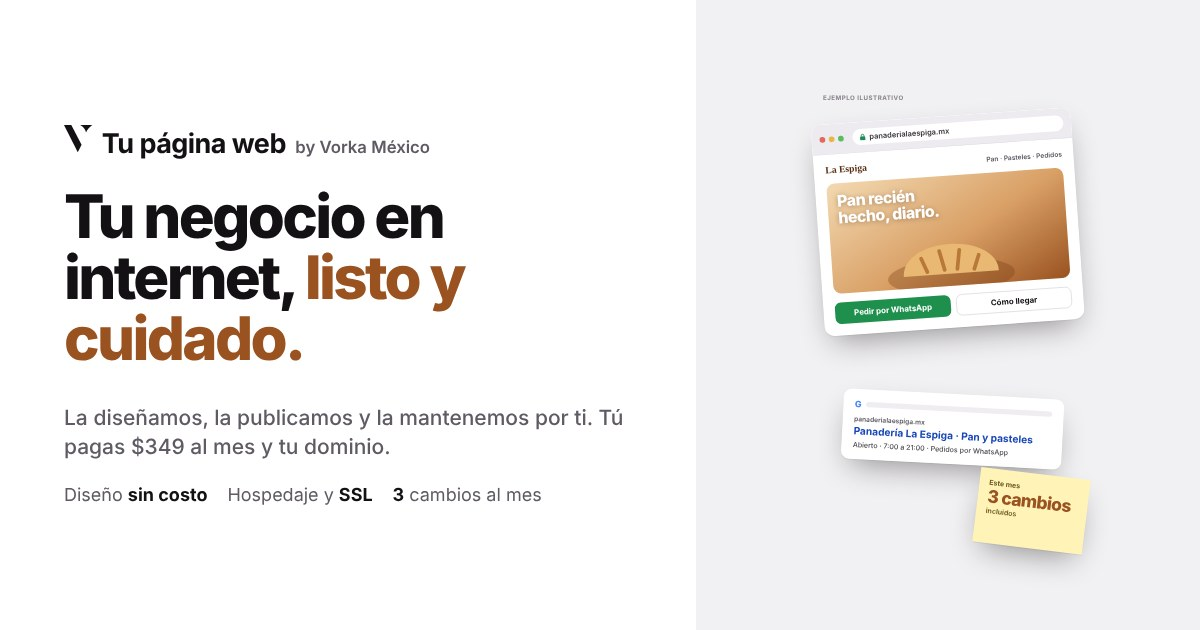
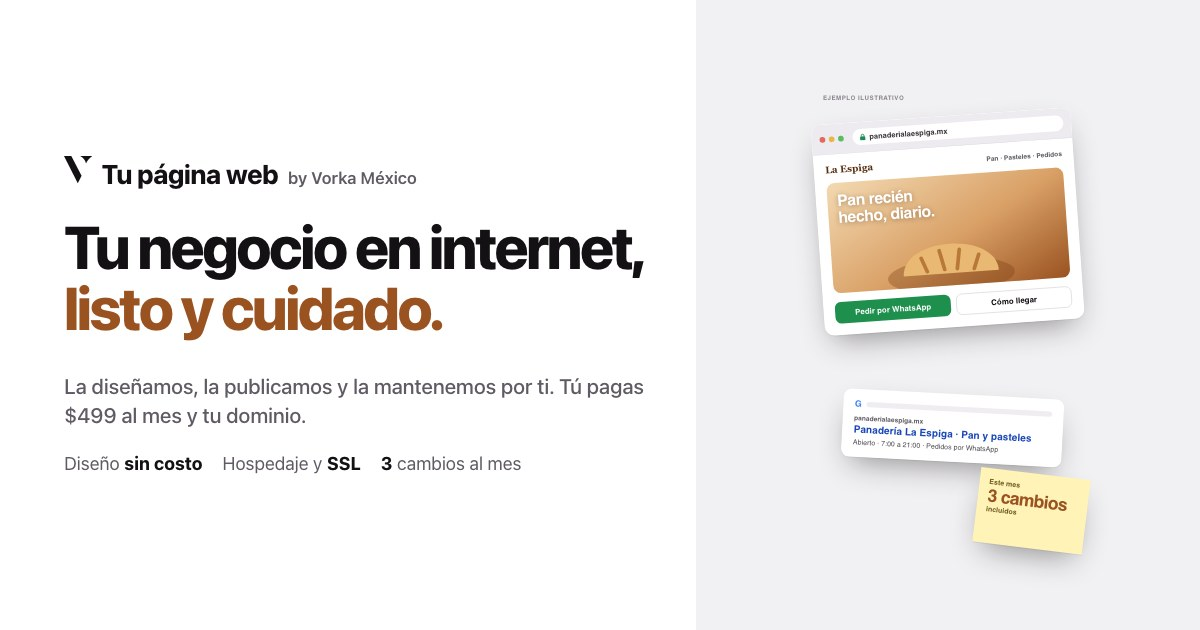
Tu página web (plan solo) sube de $349 a $499 al mes
Migración 0082 (precio en D1; las suscripciones abiertas conservan el suyo), textos de la tienda, /servicios/pagina-web/
y bandas de /servicios regeneradas, PLAN_WEB de Learn, FAQ de Negocio Completo, portada y og regeneradas, y pruebas.
Negocio Completo sigue en $749.

diff --git a/servicios/pagina-web/index.html b/servicios/pagina-web/index.html
@@ -3,15 +3,15 @@
 <head>
 <meta charset="utf-8">
 <meta name="viewport" content="width=device-width, initial-scale=1, viewport-fit=cover">
-<title>Tu página web por $349 al mes · Vorka México</title>
-<meta name="description" content="Página web para tu negocio por $349 MXN al mes más tu dominio: diseño sin costo, hospedaje con SSL, cambios cada mes, botón de WhatsApp y alta en Google.">
+<title>Tu página web por $499 al mes · Vorka México</title>
+<meta name="description" content="Página web para tu negocio por $499 MXN al mes más tu dominio: diseño sin costo, hospedaje con SSL, cambios cada mes, botón de WhatsApp y alta en Google.">
 <link rel="canonical" href="https://vorka.mx/servicios/pagina-web/">
 <meta name="theme-color" content="#FBFAF8">
 <meta property="og:type" content="website">
 <meta property="og:site_name" content="Vorka México">
 <meta property="og:locale" content="es_MX">
-<meta property="og:title" content="Tu página web por $349 al mes · Vorka México">
-<meta property="og:description" content="Página web para tu negocio por $349 MXN al mes más tu dominio: diseño sin costo, hospedaje con SSL, cambios cada mes, botón de WhatsApp y alta en Google.">
+<meta property="og:title" content="Tu página web por $499 al mes · Vorka México">
+<meta property="og:description" content="Página web para tu negocio por $499 MXN al mes más tu dominio: diseño sin costo, hospedaje con SSL, cambios cada mes, botón de WhatsApp y alta en Google.">
 <meta property="og:url" content="https://vorka.mx/servicios/pagina-web/">
 <meta property="og:image" content="https://vorka.mx/img/ciudades/cdmx-reforma-1600.webp">
 <meta name="twitter:card" content="summary_large_image">
@@ -56,8 +56,8 @@
 .pw-learn svg { width: 20px; height: 20px; flex: none; color: var(--morado); }
 @media (max-width: 980px) { .pw-g { grid-template-columns: minmax(0, 1fr); } .pw-inc, .pw-pasos { grid-template-columns: repeat(2, minmax(0, 1fr)); } .pw-cond { grid-template-columns: minmax(0, 1fr); } }
 @media (max-width: 560px) { .pw-inc, .pw-pasos, .pw-learn { grid-template-columns: minmax(0, 1fr); } .pw-precio { padding: 24px; } }
-</style><script type="application/ld+json">{"@context": "https://schema.org", "@type": "Service", "name": "Tu página web", "serviceType": "Diseño, hospedaje y mantenimiento de páginas web", "description": "Página web para tu negocio por $349 MXN al mes más el costo del dominio: hospedaje con SSL, hasta 3 cambios pequeños al mes, botón de WhatsApp y formulario, y alta en Google. Diseño sin costo con plan de 12 meses.", "url": "https://vorka.mx/servicios/pagina-web/", "areaServed": {"@type": "Country", "name": "México"}, "provider": {"@type": "ProfessionalService", "name": "Vorka México", "url": "https://vorka.mx/"}, "offers": {"@type": "Offer", "price": "349", "priceCurrency": "MXN", "url": "https://vorka.mx/servicios/pagina-web/", "priceSpecification": {"@type": "UnitPriceSpecification", "price": "349", "priceCurrency": "MXN", "unitText": "MONTH"}}}</script>
-<script type="application/ld+json">{"@context": "https://schema.org", "@type": "FAQPage", "mainEntity": [{"@type": "Question", "name": "¿Cuánto cuesta en total?", "acceptedAnswer": {"@type": "Answer", "text": "$349 MXN al mes, que se cobran en tu tarjeta como suscripción, más el costo de tu dominio, que se paga una vez al año por transferencia. El diseño no tiene costo con el plan de 12 meses."}}, {"@type": "Question", "name": "¿Cómo me suscribo?", "acceptedAnswer": {"@type": "Answer", "text": "En línea, en vorka.mx/tienda/pagina-web, con tarjeta de crédito o débito. Al terminar el pago te llega un botón para escribirnos por WhatsApp y empezar tu página."}}, {"@type": "Question", "name": "¿Cuánto cuesta el dominio?", "acceptedAnswer": {"@type": "Answer", "text": "Depende de la terminación (.mx, .com.mx, .com…) y del registrador. Antes de registrarlo te decimos el costo exacto por WhatsApp y lo pagas por transferencia."}}, {"@type": "Question", "name": "¿El dominio queda a mi nombre?", "acceptedAnswer": {"@type": "Answer", "text": "Lo registramos nosotros para darte el servicio completo. Si dejas el plan al corriente, te lo transferimos para que lo sigas usando. Si dejas de pagar, la página se da de baja y el dominio se queda con nosotros hasta que se liquide su pago anual o los meses que falten del plan."}}, {"@type": "Question", "name": "¿Qué pasa si quiero cancelar o dejo de pagar?", "acceptedAnswer": {"@type": "Answer", "text": "El plan es de 12 meses porque el diseño corre por nuestra cuenta. Si cancelas antes, pagas los meses que falten. Si dejas de pagar, la página se da de baja y el dominio se queda con nosotros hasta que se liquide su pago anual o los meses que falten del plan. Después de los 12 meses sigues mes con mes. Tu tarjeta y tu suscripción se administran en vorka.mx/tienda/suscripcion."}}, {"@type": "Question", "name": "¿Qué cuenta como cambio pequeño?", "acceptedAnswer": {"@type": "Answer", "text": "Cambiar textos, fotos, precios, horarios o datos de contacto. Incluye hasta 3 al mes; lo que sea más grande, como secciones nuevas o una tienda en línea, se cotiza aparte."}}, {"@type": "Question", "name": "¿Puedo vender en línea desde mi página?", "acceptedAnswer": {"@type": "Answer", "text": "La página del plan es para presentar tu negocio y que te escriban. Si necesitas tienda en línea con carrito y cobro, la cotizamos aparte en Apps y páginas a la medida."}}]}</script>
+</style><script type="application/ld+json">{"@context": "https://schema.org", "@type": "Service", "name": "Tu página web", "serviceType": "Diseño, hospedaje y mantenimiento de páginas web", "description": "Página web para tu negocio por $499 MXN al mes más el costo del dominio: hospedaje con SSL, hasta 3 cambios pequeños al mes, botón de WhatsApp y formulario, y alta en Google. Diseño sin costo con plan de 12 meses.", "url": "https://vorka.mx/servicios/pagina-web/", "areaServed": {"@type": "Country", "name": "México"}, "provider": {"@type": "ProfessionalService", "name": "Vorka México", "url": "https://vorka.mx/"}, "offers": {"@type": "Offer", "price": "499", "priceCurrency": "MXN", "url": "https://vorka.mx/servicios/pagina-web/", "priceSpecification": {"@type": "UnitPriceSpecification", "price": "499", "priceCurrency": "MXN", "unitText": "MONTH"}}}</script>
+<script type="application/ld+json">{"@context": "https://schema.org", "@type": "FAQPage", "mainEntity": [{"@type": "Question", "name": "¿Cuánto cuesta en total?", "acceptedAnswer": {"@type": "Answer", "text": "$499 MXN al mes, que se cobran en tu tarjeta como suscripción, más el costo de tu dominio, que se paga una vez al año por transferencia. El diseño no tiene costo con el plan de 12 meses."}}, {"@type": "Question", "name": "¿Cómo me suscribo?", "acceptedAnswer": {"@type": "Answer", "text": "En línea, en vorka.mx/tienda/pagina-web, con tarjeta de crédito o débito. Al terminar el pago te llega un botón para escribirnos por WhatsApp y empezar tu página."}}, {"@type": "Question", "name": "¿Cuánto cuesta el dominio?", "acceptedAnswer": {"@type": "Answer", "text": "Depende de la terminación (.mx, .com.mx, .com…) y del registrador. Antes de registrarlo te decimos el costo exacto por WhatsApp y lo pagas por transferencia."}}, {"@type": "Question", "name": "¿El dominio queda a mi nombre?", "acceptedAnswer": {"@type": "Answer", "text": "Lo registramos nosotros para darte el servicio completo. Si dejas el plan al corriente, te lo transferimos para que lo sigas usando. Si dejas de pagar, la página se da de baja y el dominio se queda con nosotros hasta que se liquide su pago anual o los meses que falten del plan."}}, {"@type": "Question", "name": "¿Qué pasa si quiero cancelar o dejo de pagar?", "acceptedAnswer": {"@type": "Answer", "text": "El plan es de 12 meses porque el diseño corre por nuestra cuenta. Si cancelas antes, pagas los meses que falten. Si dejas de pagar, la página se da de baja y el dominio se queda con nosotros hasta que se liquide su pago anual o los meses que falten del plan. Después de los 12 meses sigues mes con mes. Tu tarjeta y tu suscripción se administran en vorka.mx/tienda/suscripcion."}}, {"@type": "Question", "name": "¿Qué cuenta como cambio pequeño?", "acceptedAnswer": {"@type": "Answer", "text": "Cambiar textos, fotos, precios, horarios o datos de contacto. Incluye hasta 3 al mes; lo que sea más grande, como secciones nuevas o una tienda en línea, se cotiza aparte."}}, {"@type": "Question", "name": "¿Puedo vender en línea desde mi página?", "acceptedAnswer": {"@type": "Answer", "text": "La página del plan es para presentar tu negocio y que te escriban. Si necesitas tienda en línea con carrito y cobro, la cotizamos aparte en Apps y páginas a la medida."}}]}</script>
 <script type="application/ld+json">{"@context": "https://schema.org", "@type": "BreadcrumbList", "itemListElement": [{"@type": "ListItem", "position": 1, "name": "Inicio", "item": "https://vorka.mx/"}, {"@type": "ListItem", "position": 2, "name": "Servicios", "item": "https://vorka.mx/servicios/"}, {"@type": "ListItem", "position": 3, "name": "Tu página web", "item": "https://vorka.mx/servicios/pagina-web/"}]}</script>
 </head>
 <body>
@@ -80,16 +80,16 @@
       <div class="migas"><a href="/">Inicio</a><span>/</span><a href="/servicios/">Servicios</a><span>/</span><span>Tu página web</span></div>
       <span class="etiqueta">Tu página web</span>
       <h1 class="h1" style="margin-top:18px">Tu página web, <span class="metal">lista y cuidada.</span></h1>
-      <p class="lead">La diseñamos, la publicamos y la mantenemos por ti. Tú pagas una renta de $349 al mes y tu dominio; el diseño corre por nuestra cuenta.</p>
-      <div class="botones"><a class="btn tinta" href="/tienda/pagina-web/">Suscribirme en línea <svg viewBox="0 0 24 24" fill="none" stroke="currentColor" stroke-width="2" stroke-linecap="round" stroke-linejoin="round" aria-hidden="true"><path d="M5 12h14M13 6l6 6-6 6"/></svg></a><a class="btn blanco" href="https://wa.me/528117804869?text=Hola%20Vorka%2C%20quiero%20mi%20p%C3%A1gina%20web%20de%20%24349%20al%20mes." target="_blank" rel="noopener">Platicar por WhatsApp</a></div>
+      <p class="lead">La diseñamos, la publicamos y la mantenemos por ti. Tú pagas una renta de $499 al mes y tu dominio; el diseño corre por nuestra cuenta.</p>
+      <div class="botones"><a class="btn tinta" href="/tienda/pagina-web/">Suscribirme en línea <svg viewBox="0 0 24 24" fill="none" stroke="currentColor" stroke-width="2" stroke-linecap="round" stroke-linejoin="round" aria-hidden="true"><path d="M5 12h14M13 6l6 6-6 6"/></svg></a><a class="btn blanco" href="https://wa.me/528117804869?text=Hola%20Vorka%2C%20quiero%20mi%20p%C3%A1gina%20web%20de%20%24499%20al%20mes." target="_blank" rel="noopener">Platicar por WhatsApp</a></div>
     </div>
     <aside class="pw-precio rv" aria-label="Precio del plan">
       <span class="etiqueta">Plan Tu página web</span>
-      <div class="pw-cifra"><b>$349</b><span>MXN al mes</span></div>
+      <div class="pw-cifra"><b>$499</b><span>MXN al mes</span></div>
       <p class="pw-mas">Suscripción mensual con tarjeta. + tu dominio, a su costo, una vez al año por transferencia. Diseño sin costo con el plan de 12 meses.</p>
       <ul class="pw-lista"><li><svg viewBox="0 0 24 24" fill="none" stroke="currentColor" stroke-width="2.4" stroke-linecap="round" stroke-linejoin="round" aria-hidden="true"><path d="M5 12.5 10 17 19 7"/></svg><span>Hospedaje y candado de seguridad</span></li><li><svg viewBox="0 0 24 24" fill="none" stroke="currentColor" stroke-width="2.4" stroke-linecap="round" stroke-linejoin="round" aria-hidden="true"><path d="M5 12.5 10 17 19 7"/></svg><span>Hasta 3 cambios pequeños al mes</span></li><li><svg viewBox="0 0 24 24" fill="none" stroke="currentColor" stroke-width="2.4" stroke-linecap="round" stroke-linejoin="round" aria-hidden="true"><path d="M5 12.5 10 17 19 7"/></svg><span>Botón de WhatsApp y formulario</span></li><li><svg viewBox="0 0 24 24" fill="none" stroke="currentColor" stroke-width="2.4" stroke-linecap="round" stroke-linejoin="round" aria-hidden="true"><path d="M5 12.5 10 17 19 7"/></svg><span>Que Google te encuentre</span></li></ul>
       <a class="btn plata" href="/tienda/pagina-web/">Suscribirme <svg viewBox="0 0 24 24" fill="none" stroke="currentColor" stroke-width="2" stroke-linecap="round" stroke-linejoin="round" aria-hidden="true"><path d="M5 12h14M13 6l6 6-6 6"/></svg></a>
-      <p class="pw-nota">Pago seguro con Stripe. ¿Dudas? <a href="https://wa.me/528117804869?text=Hola%20Vorka%2C%20quiero%20mi%20p%C3%A1gina%20web%20de%20%24349%20al%20mes." target="_blank" rel="noopener" style="color:inherit;text-decoration:underline">WhatsApp</a></p>
+      <p class="pw-nota">Pago seguro con Stripe. ¿Dudas? <a href="https://wa.me/528117804869?text=Hola%20Vorka%2C%20quiero%20mi%20p%C3%A1gina%20web%20de%20%24499%20al%20mes." target="_blank" rel="noopener" style="color:inherit;text-decoration:underline">WhatsApp</a></p>
     </aside>
   </div>
 </section>
@@ -112,7 +112,7 @@
 <section class="sec pegada" aria-labelledby="t-cond">
   <div class="marco">
     <div class="cab rv"><span class="etiqueta">Sin letras chiquitas</span><h2 class="h2" id="t-cond">Las condiciones, <span class="metal">claras desde el inicio.</span></h2></div>
-    <div class="pw-cond"><div class="rv"><h3>Plan de 12 meses</h3><p>El diseño no tiene costo porque el plan es de 12 meses ($349 al mes). Si cancelas antes, pagas los meses que falten.</p></div><div class="rv"><h3>Tu dominio</h3><p>Lo registramos por ti; su costo exacto se paga una vez al año por transferencia, y te pasamos los datos por WhatsApp. Si un día dejas el plan, te lo transferimos.</p></div><div class="rv"><h3>Si dejas de pagar</h3><p>Tu página se da de baja y el dominio se queda con nosotros hasta que liquides su pago anual o los meses que falten del plan. Al ponerte al corriente, te lo transferimos o la volvemos a publicar.</p></div><div class="rv"><h3>Cambios más grandes</h3><p>Secciones nuevas, tienda en línea o sistemas a la medida se cotizan aparte.</p></div></div>
+    <div class="pw-cond"><div class="rv"><h3>Plan de 12 meses</h3><p>El diseño no tiene costo porque el plan es de 12 meses ($499 al mes). Si cancelas antes, pagas los meses que falten.</p></div><div class="rv"><h3>Tu dominio</h3><p>Lo registramos por ti; su costo exacto se paga una vez al año por transferencia, y te pasamos los datos por WhatsApp. Si un día dejas el plan, te lo transferimos.</p></div><div class="rv"><h3>Si dejas de pagar</h3><p>Tu página se da de baja y el dominio se queda con nosotros hasta que liquides su pago anual o los meses que falten del plan. Al ponerte al corriente, te lo transferimos o la volvemos a publicar.</p></div><div class="rv"><h3>Cambios más grandes</h3><p>Secciones nuevas, tienda en línea o sistemas a la medida se cotizan aparte.</p></div></div>
   </div>
 </section>
 
@@ -127,7 +127,7 @@
 <section class="sec" aria-labelledby="t-faq">
   <div class="marco">
     <div class="cab centro rv"><span class="etiqueta">Preguntas frecuentes</span><h2 class="h2" id="t-faq">Lo que nos <span class="metal">preguntan.</span></h2></div>
-    <div class="faq"><details class="rv"><summary>¿Cuánto cuesta en total?<i aria-hidden="true"></i></summary><p>$349 MXN al mes, que se cobran en tu tarjeta como suscripción, más el costo de tu dominio, que se paga una vez al año por transferencia. El diseño no tiene costo con el plan de 12 meses.</p></details><details class="rv"><summary>¿Cómo me suscribo?<i aria-hidden="true"></i></summary><p>En línea, en vorka.mx/tienda/pagina-web, con tarjeta de crédito o débito. Al terminar el pago te llega un botón para escribirnos por WhatsApp y empezar tu página.</p></details><details class="rv"><summary>¿Cuánto cuesta el dominio?<i aria-hidden="true"></i></summary><p>Depende de la terminación (.mx, .com.mx, .com…) y del registrador. Antes de registrarlo te decimos el costo exacto por WhatsApp y lo pagas por transferencia.</p></details><details class="rv"><summary>¿El dominio queda a mi nombre?<i aria-hidden="true"></i></summary><p>Lo registramos nosotros para darte el servicio completo. Si dejas el plan al corriente, te lo transferimos para que lo sigas usando. Si dejas de pagar, la página se da de baja y el dominio se queda con nosotros hasta que se liquide su pago anual o los meses que falten del plan.</p></details><details class="rv"><summary>¿Qué pasa si quiero cancelar o dejo de pagar?<i aria-hidden="true"></i></summary><p>El plan es de 12 meses porque el diseño corre por nuestra cuenta. Si cancelas antes, pagas los meses que falten. Si dejas de pagar, la página se da de baja y el dominio se queda con nosotros hasta que se liquide su pago anual o los meses que falten del plan. Después de los 12 meses sigues mes con mes. Tu tarjeta y tu suscripción se administran en vorka.mx/tienda/suscripcion.</p></details><details class="rv"><summary>¿Qué cuenta como cambio pequeño?<i aria-hidden="true"></i></summary><p>Cambiar textos, fotos, precios, horarios o datos de contacto. Incluye hasta 3 al mes; lo que sea más grande, como secciones nuevas o una tienda en línea, se cotiza aparte.</p></details><details class="rv"><summary>¿Puedo vender en línea desde mi página?<i aria-hidden="true"></i></summary><p>La página del plan es para presentar tu negocio y que te escriban. Si necesitas tienda en línea con carrito y cobro, la cotizamos aparte en Apps y páginas a la medida.</p></details></div>
+    <div class="faq"><details class="rv"><summary>¿Cuánto cuesta en total?<i aria-hidden="true"></i></summary><p>$499 MXN al mes, que se cobran en tu tarjeta como suscripción, más el costo de tu dominio, que se paga una vez al año por transferencia. El diseño no tiene costo con el plan de 12 meses.</p></details><details class="rv"><summary>¿Cómo me suscribo?<i aria-hidden="true"></i></summary><p>En línea, en vorka.mx/tienda/pagina-web, con tarjeta de crédito o débito. Al terminar el pago te llega un botón para escribirnos por WhatsApp y empezar tu página.</p></details><details class="rv"><summary>¿Cuánto cuesta el dominio?<i aria-hidden="true"></i></summary><p>Depende de la terminación (.mx, .com.mx, .com…) y del registrador. Antes de registrarlo te decimos el costo exacto por WhatsApp y lo pagas por transferencia.</p></details><details class="rv"><summary>¿El dominio queda a mi nombre?<i aria-hidden="true"></i></summary><p>Lo registramos nosotros para darte el servicio completo. Si dejas el plan al corriente, te lo transferimos para que lo sigas usando. Si dejas de pagar, la página se da de baja y el dominio se queda con nosotros hasta que se liquide su pago anual o los meses que falten del plan.</p></details><details class="rv"><summary>¿Qué pasa si quiero cancelar o dejo de pagar?<i aria-hidden="true"></i></summary><p>El plan es de 12 meses porque el diseño corre por nuestra cuenta. Si cancelas antes, pagas los meses que falten. Si dejas de pagar, la página se da de baja y el dominio se queda con nosotros hasta que se liquide su pago anual o los meses que falten del plan. Después de los 12 meses sigues mes con mes. Tu tarjeta y tu suscripción se administran en vorka.mx/tienda/suscripcion.</p></details><details class="rv"><summary>¿Qué cuenta como cambio pequeño?<i aria-hidden="true"></i></summary><p>Cambiar textos, fotos, precios, horarios o datos de contacto. Incluye hasta 3 al mes; lo que sea más grande, como secciones nuevas o una tienda en línea, se cotiza aparte.</p></details><details class="rv"><summary>¿Puedo vender en línea desde mi página?<i aria-hidden="true"></i></summary><p>La página del plan es para presentar tu negocio y que te escriban. Si necesitas tienda en línea con carrito y cobro, la cotizamos aparte en Apps y páginas a la medida.</p></details></div>
   </div>
 </section>
 <section class="cierre plat" id="platiquemos" aria-labelledby="t-plat">

diff --git a/_tienda/src/paginaweb.js b/_tienda/src/paginaweb.js
@@ -1,4 +1,4 @@
-// Tienda › Tu página web (vorka.mx/tienda/pagina-web/): el plan de $349 al mes como SUSCRIPCIÓN (Stripe Billing, como Cuentas).
+// Tienda › Tu página web (vorka.mx/tienda/pagina-web/): el plan de $499 al mes (migración 0082) como SUSCRIPCIÓN (Stripe Billing, como Cuentas).
 // El dominio no se cobra aquí: se paga por transferencia a Vorka por WhatsApp. Producto: migración 0070 (pagina-web-mensual).
 // La página del servicio, con todo el detalle, es /servicios/pagina-web/ (_tienda no la genera: _sitio/paginaweb.py).
 // Las condiciones (12 meses, dominio, cambios) son las mismas que allá y que en Vorka Learn (src/learn-web.js › PLAN_WEB).
@@ -10,7 +10,7 @@ import { FLECHA, CHECK } from './marco.generado.js';
 export const RUTA_PAGINA_WEB = '/tienda/pagina-web/';
 export const SLUG_PAGINA_WEB = 'pagina-web-mensual';
 export const WA_PAGINA_WEB = `https://wa.me/528117804869?text=${encodeURIComponent('Hola Vorka, ya pagué mi suscripción de Tu página web. ¿Qué necesitan para empezar?')}`;
-const WA_DUDA = `https://wa.me/528117804869?text=${encodeURIComponent('Hola Vorka, tengo una duda sobre Tu página web de $349 al mes.')}`;
+const WA_DUDA = `https://wa.me/528117804869?text=${encodeURIComponent('Hola Vorka, tengo una duda sobre Tu página web de $499 al mes.')}`;
 const BOT = /bot|crawl|spider|slurp|preview|facebookexternalhit|lighthouse|headless/i;
 const INCLUYE = ['Diseño de tu página, sin costo con el plan de 12 meses', 'Hospedaje con candado de seguridad (HTTPS)', 'Hasta 3 cambios pequeños al mes', 'Botón de WhatsApp y formulario de contacto', 'Alta en Google Search Console y en tu Perfil de Negocio'];
 const FAQ = [
@@ -41,15 +41,15 @@ export async function paginaPaginaWeb(env, req, url) {
     ...(p ? { offers: { '@type': 'Offer', price: (p.precio_centavos / 100).toFixed(2), priceCurrency: 'MXN', url: `https://vorka.mx${RUTA_PAGINA_WEB}`,
       priceSpecification: { '@type': 'UnitPriceSpecification', price: (p.precio_centavos / 100).toFixed(2), priceCurrency: 'MXN', unitText: 'MONTH' } } } : {}) }];
   return pagina({ navActual: 'catalogo',
-    titulo: 'Tu página web por $349 al mes: suscríbete | Vorka México', ruta: RUTA_PAGINA_WEB, imagen: 'https://vorka.mx/assets/tienda/v3/pagina-web-og.jpg',
-    descripcion: 'Suscríbete a Tu página web: $349 al mes con diseño sin costo, hospedaje con SSL, cambios cada mes, botón de WhatsApp y alta en Google. El dominio se paga aparte.',
+    titulo: 'Tu página web por $499 al mes: suscríbete | Vorka México', ruta: RUTA_PAGINA_WEB, imagen: 'https://vorka.mx/assets/tienda/v3/pagina-web-og.jpg',
+    descripcion: 'Suscríbete a Tu página web: $499 al mes con diseño sin costo, hospedaje con SSL, cambios cada mes, botón de WhatsApp y alta en Google. El dominio se paga aparte.',
     head: `<script type="application/ld+json">${JSON.stringify(ld).replace(/</g, '\\u003c')}</script><style>${CSS}</style>`,
     headers: cookie ? { 'set-cookie': cookie } : {}, script: SCRIPT,
     cuerpo: `<section class="pw-hero"><div class="marco pw-g">
   <div>
     <nav class="t-volver" aria-label="Ruta"><a href="/tienda/">Tienda</a> / Servicios</nav>
     <span class="pw-chip">Suscripción mensual</span>
-    <h1 class="t-h1">Tu página web por <span class="metal">${p ? precio(p).replace(' MXN', '') : '$349'} al mes.</span></h1>
+    <h1 class="t-h1">Tu página web por <span class="metal">${p ? precio(p).replace(' MXN', '') : '$499'} al mes.</span></h1>
     <p class="t-lead">La diseñamos, la publicamos y la mantenemos por ti. Te suscribes aquí con tarjeta y empezamos por WhatsApp.</p>
     <ul class="pw-inc">${INCLUYE.map(x => `<li>${CHECK}<span>${esc(x)}</span></li>`).join('')}</ul>
     <p class="t-ya"><a href="/servicios/pagina-web/">Ver todo el detalle del servicio</a> · <a href="${WA_DUDA}" target="_blank" rel="noopener">¿Dudas? WhatsApp</a></p>

diff --git a/_tienda/test/pagina-web.test.js b/_tienda/test/pagina-web.test.js
@@ -1,4 +1,4 @@
-// Tu página web en la tienda: /tienda/pagina-web/, suscripción mensual de $349 con Stripe Billing, correo y página de gracias
+// Tu página web en la tienda: /tienda/pagina-web/, suscripción mensual de $499 con Stripe Billing, correo y página de gracias
 // que llevan a WhatsApp (no hay app que abrir; el dominio se paga aparte por transferencia) y Puntos para quien recomienda.
 import { describe, it, expect, beforeEach, afterEach, vi } from 'vitest';
 import { d1 } from './d1.js';
@@ -26,7 +26,7 @@ const fila = sql => env.DB.raw.prepare(sql).get();
 
 const sub = (o = {}) => ({
   id: 'sub_c1', status: 'active', customer: 'cus_1', cancel_at_period_end: false, metadata: { order_id: stripe.orden, app: 'pagina-web', email: 'laura@correo.mx', product_id: 'prod_pagina_web_mensual' },
-  items: { data: [{ id: 'si_plan', quantity: 1, current_period_end: 1893456000, price: { unit_amount: 34900, recurring: { interval: 'month' }, product: { metadata: { product_id: 'prod_pagina_web_mensual' } } } }] }, ...o,
+  items: { data: [{ id: 'si_plan', quantity: 1, current_period_end: 1893456000, price: { unit_amount: 49900, recurring: { interval: 'month' }, product: { metadata: { product_id: 'prod_pagina_web_mensual' } } } }] }, ...o,
 });
 
 beforeEach(() => {
@@ -40,7 +40,7 @@ beforeEach(() => {
     if (url.endsWith('/customers')) return ok({ id: 'cus_1' });
     if (url.endsWith('/checkout/sessions')) { const id = `cs_${llamada('/checkout/sessions').length}`; return ok({ id, url: `https://checkout.stripe.com/c/pay/${id}` }); }
     if (url.includes('/checkout/sessions/')) return ok({ id: 'cs_1', mode: 'subscription', metadata: { order_id: stripe.orden }, client_reference_id: stripe.orden,
-      amount_total: 34900, currency: 'mxn', status: 'complete', payment_status: 'paid', payment_intent: null, subscription: 'sub_c1' });
+      amount_total: 49900, currency: 'mxn', status: 'complete', payment_status: 'paid', payment_intent: null, subscription: 'sub_c1' });
     if (url.includes('/subscriptions/')) return ok(stripe.sub);
     if (url.includes('/invoices/')) return ok(stripe.factura);
     if (url.endsWith('/billing_portal/sessions')) return ok({ url: 'https://billing.stripe.com/p/session/x' });
@@ -59,19 +59,19 @@ describe('Tu página web', () => {
     const r = await pedir('/tienda/pagina-web/');
     expect(r.status).toBe(200);
     const h = await r.text();
-    expect(h).toContain('$349');
+    expect(h).toContain('$499');
     expect(h).toContain('plan de 12 meses');
     expect(h).toMatch(/dominio se paga aparte/);
     expect((await pedir('/tienda/pagina-web')).status).toBe(301);
     expect(await (await pedir('/tienda/')).text()).toContain('/tienda/pagina-web/');
   });
-  it('abre Stripe en modo suscripción mensual de $349 con la app en la metadata', async () => {
+  it('abre Stripe en modo suscripción mensual de $499 con la app en la metadata', async () => {
     const r = await comprar();
     expect(r.status, await r.clone().text()).toBe(200);
     const p = llamada('/checkout/sessions')[0].params;
     expect(p.get('mode')).toBe('subscription');
     expect([...p.entries()].some(([k, v]) => /recurring\]\[interval\]$/.test(k) && v === 'month')).toBe(true);
-    expect([...p.entries()].some(([k, v]) => /unit_amount\]$/.test(k) && v === '34900')).toBe(true);
+    expect([...p.entries()].some(([k, v]) => /unit_amount\]$/.test(k) && v === '49900')).toBe(true);
     expect([...p.entries()].some(([k, v]) => /metadata\]\[app\]$|^subscription_data\[metadata\]\[app\]$/.test(k) && v === 'pagina-web')).toBe(true);
   });
   it('al pagar: correo con WhatsApp para empezar y pagar el dominio, y la página de gracias igual', async () => {

diff --git a/servicios/index.html b/servicios/index.html
@@ -50,7 +50,7 @@
 <section class="sec pegada" aria-label="Servicios"><div class="marco"><div class="elegir"><a class="rv" href="/servicios/estrategia/" style="--d:0.0s"><small>Si necesitas…</small><b>Tomar una decisión que define los próximos cinco años.</b><span>Estrategia y Dirección <svg viewBox="0 0 24 24" fill="none" stroke="currentColor" stroke-width="2" stroke-linecap="round" stroke-linejoin="round" aria-hidden="true"><path d="M5 12h14M13 6l6 6-6 6"/></svg></span></a><a class="rv" href="/servicios/liderazgo/" style="--d:0.06s"><small>Si necesitas…</small><b>Que tu equipo directivo decida y lidere mejor.</b><span>Liderazgo y Talento <svg viewBox="0 0 24 24" fill="none" stroke="currentColor" stroke-width="2" stroke-linecap="round" stroke-linejoin="round" aria-hidden="true"><path d="M5 12h14M13 6l6 6-6 6"/></svg></span></a><a class="rv" href="/servicios/influencia/" style="--d:0.12s"><small>Si necesitas…</small><b>Que te escuchen, te entiendan y te elijan.</b><span>Comunicación e Influencia <svg viewBox="0 0 24 24" fill="none" stroke="currentColor" stroke-width="2" stroke-linecap="round" stroke-linejoin="round" aria-hidden="true"><path d="M5 12h14M13 6l6 6-6 6"/></svg></span></a><a class="rv" href="/servicios/apps/" style="--d:0.18s"><small>Si necesitas…</small><b>Un sitio, una tienda en línea o una app propia que funcione.</b><span>Apps y páginas a la medida <svg viewBox="0 0 24 24" fill="none" stroke="currentColor" stroke-width="2" stroke-linecap="round" stroke-linejoin="round" aria-hidden="true"><path d="M5 12h14M13 6l6 6-6 6"/></svg></span></a></div></div></section>
 <section class="sec pegada" aria-label="Plan Tu página web"><div class="marco">
   <a class="pw-banda rv" href="/servicios/pagina-web/">
-    <span class="pw-banda-t"><span class="etiqueta">Nuevo · Tu página web</span><b>La página de tu negocio por <span class="metal">$349 al mes.</span></b>
+    <span class="pw-banda-t"><span class="etiqueta">Nuevo · Tu página web</span><b>La página de tu negocio por <span class="metal">$499 al mes.</span></b>
       <small>Diseño sin costo, hospedaje con candado de seguridad, cambios cada mes y botón de WhatsApp. Solo pagas la renta y tu dominio.</small></span>
     <span class="btn tinta">Ver el plan <svg viewBox="0 0 24 24" fill="none" stroke="currentColor" stroke-width="2" stroke-linecap="round" stroke-linejoin="round" aria-hidden="true"><path d="M5 12h14M13 6l6 6-6 6"/></svg></span>
   </a>

diff --git a/_tienda/src/negociocompleto.js b/_tienda/src/negociocompleto.js
@@ -26,7 +26,7 @@ const FAQ = [
   ['¿Cuánto tarda?', 'Con el Arranque, en 7 días está funcionando a partir de que nos mandas tu logo, tus servicios, tus horarios y tu premio. Si en ese plazo no está funcionando, te devolvemos el Arranque.'],
   ['¿Puedo pagar por transferencia?', 'Sí. Escríbenos por WhatsApp: el Arranque se paga por transferencia y te mandamos un código para que tu primer mes vaya de regalo. Con ese código activas aquí tu suscripción con tarjeta y tu primer mes sale en $10.'],
   ['¿Cómo pago el dominio?', 'El dominio (tunegocio.mx o .com) no está incluido en los $749: corre por tu cuenta y se paga aparte, por transferencia a Vorka, una vez al año. Te decimos el costo exacto por WhatsApp; depende de la terminación.'],
-  ['¿Puedo bajar de plan?', 'Sí. Puedes quedarte solo con Vuelve ($399 al mes), solo con Agenda ($99 al mes) o con las dos ($449 al mes); nos escribes por WhatsApp y lo cambiamos sin cobrarte doble. Al bajar, tu página web se da de baja. Si es antes de los primeros 12 meses, liquidas los meses que falten de la página ($349 cada uno).'],
+  ['¿Puedo bajar de plan?', 'Sí. Puedes quedarte solo con Vuelve ($399 al mes), solo con Agenda ($99 al mes) o con las dos ($449 al mes); nos escribes por WhatsApp y lo cambiamos sin cobrarte doble. Al bajar, tu página web se da de baja. Si es antes de los primeros 12 meses, liquidas los meses que falten de la página ($499 cada uno).'],
   ['¿Cómo funciona el plan de 12 meses?', 'La suscripción se cobra cada mes en tu tarjeta y el plan es de 12 meses. Si cancelas antes, pagas los meses que falten. Si dejas de pagar, tu página, tu Agenda y tu tarjeta de Vuelve se dan de baja, y el dominio se queda con Vorka hasta que se liquide lo pendiente. Después de los 12 meses sigues mes con mes y cancelas cuando quieras en vorka.mx/tienda/suscripcion.'],
 ];
 

diff --git a/_tienda/test/modelo.test.js b/_tienda/test/modelo.test.js
@@ -25,7 +25,7 @@ describe('modelo de datos', () => {
     // los demás niveles de Cupo se venden en /tienda/cupo/ sin listarse; Cuentas entra activo (decisión 2026-10-22);
     // los reportes de los tests entran activos por encargo del dueño (migración 0058; las licencias de grupo, ocultas);
     // los portales inmobiliarios entran a la venta por decisión del usuario (2-11-2026; Broker, Inmobiliaria y usuario extra, ocultos);
-    // Tu página web (suscripción, $349 desde la migración 0071) entra a la venta por decisión del usuario (5-11-2026, migración 0070)
+    // Tu página web (suscripción, $499 desde la migración 0082) entra a la venta por decisión del usuario (5-11-2026, migración 0070)
     // el Simulador IPN (migración 0076) y los paquetes de simuladores (0077) entran a la venta por encargo del dueño (6-11-2026)
     // Negocio Completo (0079, en el catálogo desde 0080) entra a la venta por decisión del usuario (9-11-2026); su instalación, oculta
     expect(activos.map(p => p.slug).sort()).toEqual(['negocio-completo-mensual', 'test-vocacional', 'que-proyecto-social', 'cupo-pro', 'cuentas-mensual', 'portales-basico-mensual', 'pagina-web-mensual',

diff --git a/_tienda/test/puntos-unificados.test.js b/_tienda/test/puntos-unificados.test.js
@@ -88,11 +88,11 @@ describe('Puntos por % del nivel del semestre', () => {
     expect(movs('ana@mail.com')[0]).toMatchObject({ pct: 40, puntos: 60, multiplicador: 2 });   // 40% de $149
   });
 
-  it('Tu página web (suscripción de $349) da puntos a quien la recomienda, como las demás', async () => {
+  it('Tu página web (suscripción de $499) da puntos a quien la recomienda, como las demás', async () => {
     await entrar('ana@mail.com');
     const code = await codigoDe(env, 'ana@mail.com');
     await compraPagada('negocio@mail.com', code, 'pagina-web-mensual');
-    expect(movs('ana@mail.com')[0]).toMatchObject({ pct: 10, puntos: 35 });   // 10% de $349, redondeado
+    expect(movs('ana@mail.com')[0]).toMatchObject({ pct: 10, puntos: 50 });   // 10% de $499, redondeado
   });
 
   it('renovaciones de suscripción dan puntos con el % del nivel, hasta la factura 12, sin subir de nivel y sin duplicar', async () => {

diff --git a/servicios/apps/index.html b/servicios/apps/index.html
@@ -73,7 +73,7 @@
 </section>
 <section class="sec pegada" aria-label="Plan Tu página web"><div class="marco">
   <a class="pw-banda rv" href="/servicios/pagina-web/">
-    <span class="pw-banda-t"><span class="etiqueta">Nuevo · Tu página web</span><b>La página de tu negocio por <span class="metal">$349 al mes.</span></b>
+    <span class="pw-banda-t"><span class="etiqueta">Nuevo · Tu página web</span><b>La página de tu negocio por <span class="metal">$499 al mes.</span></b>
       <small>Diseño sin costo, hospedaje con candado de seguridad, cambios cada mes y botón de WhatsApp. Solo pagas la renta y tu dominio.</small></span>
     <span class="btn tinta">Ver el plan <svg viewBox="0 0 24 24" fill="none" stroke="currentColor" stroke-width="2" stroke-linecap="round" stroke-linejoin="round" aria-hidden="true"><path d="M5 12h14M13 6l6 6-6 6"/></svg></span>
   </a>

diff --git a/_tienda/src/learn-web.js b/_tienda/src/learn-web.js
@@ -32,7 +32,7 @@ export const WEB = {
 };
 
 // El plan de Vorka México (lo que se promete en /servicios/pagina-web/; se cambia aquí y en _sitio/paginaweb.py)
-export const PLAN_WEB = { precio: '$349 MXN al mes', plazo: '12 meses', ruta: '/servicios/pagina-web/' };
+export const PLAN_WEB = { precio: '$499 MXN al mes', plazo: '12 meses', ruta: '/servicios/pagina-web/' };
 
 // ---------- fuentes (todas revisadas el 5 de noviembre de 2026) ----------
 const F = {

diff --git a/_sitio/paginaweb.py b/_sitio/paginaweb.py
@@ -1,14 +1,14 @@
 # Vorka México · /servicios/pagina-web/: el plan «Tu página web» para negocios pequeños.
-# Precio y condiciones acordados por Vorka (5 nov 2026): $349 MXN al mes con hospedaje (antes $299; el usuario lo subió el mismo día) y SSL, hasta 3 cambios pequeños al
+# Precio y condiciones acordados por Vorka (5 nov 2026; precio subido a $499 el 9 nov 2026, migración 0082): $499 MXN al mes con hospedaje (antes $349 y $299) y SSL, hasta 3 cambios pequeños al
 # mes, botón de WhatsApp y formulario, y alta en Google; el diseño corre por nuestra cuenta con plan de 12 meses (si cancela
 # antes, paga los meses que falten; si deja de pagar se da de baja el sitio y el dominio se queda con Vorka hasta que liquide el pago anual o los meses que falten); Vorka registra el dominio y le cobra su costo una vez al año, y si se va se lo
 # transfiere. Si cambia algo, cámbialo también en _tienda/src/learn-web.js (PLAN_WEB y el llamado de las guías).
 import json
 from partes import *
 
-PRECIO = '$349'
+PRECIO = '$499'
 TIENDA = '/tienda/pagina-web/'   # suscripción en línea (Stripe), _tienda/src/paginaweb.js
-WA_PLAN = 'Hola Vorka, quiero mi página web de $349 al mes.'
+WA_PLAN = 'Hola Vorka, quiero mi página web de $499 al mes.'
 INCLUYE = [
     ('globo', 'Hospedaje y candado de seguridad', 'Tu página en línea con certificado SSL (HTTPS), sin pagar servidor aparte.'),
     ('doc', 'Hasta 3 cambios pequeños al mes', 'Textos, fotos, precios u horarios: nos escribes y lo cambiamos.'),
@@ -148,8 +148,8 @@ def pagina_web():
                 'description': f'Página web para tu negocio por {PRECIO} MXN al mes más el costo del dominio: hospedaje con SSL, hasta 3 cambios pequeños al mes, botón de WhatsApp y formulario, y alta en Google. Diseño sin costo con plan de 12 meses.',
                 'url': SITIO + '/servicios/pagina-web/', 'areaServed': {'@type': 'Country', 'name': 'México'},
                 'provider': {'@type': 'ProfessionalService', 'name': 'Vorka México', 'url': SITIO + '/'},
-                'offers': {'@type': 'Offer', 'price': '349', 'priceCurrency': 'MXN', 'url': SITIO + '/servicios/pagina-web/',
-                           'priceSpecification': {'@type': 'UnitPriceSpecification', 'price': '349', 'priceCurrency': 'MXN', 'unitText': 'MONTH'}}}
+                'offers': {'@type': 'Offer', 'price': '499', 'priceCurrency': 'MXN', 'url': SITIO + '/servicios/pagina-web/',
+                           'priceSpecification': {'@type': 'UnitPriceSpecification', 'price': '499', 'priceCurrency': 'MXN', 'unitText': 'MONTH'}}}
     faq_ld = {'@context': 'https://schema.org', '@type': 'FAQPage', 'mainEntity': [{'@type': 'Question', 'name': q, 'acceptedAnswer': {'@type': 'Answer', 'text': a}} for q, a in PREGUNTAS_WEB]}
     migas = {'@context': 'https://schema.org', '@type': 'BreadcrumbList', 'itemListElement': [
         {'@type': 'ListItem', 'position': 1, 'name': 'Inicio', 'item': SITIO + '/'}, {'@type': 'ListItem', 'position': 2, 'name': 'Servicios', 'item': SITIO + '/servicios/'},

diff --git a/_tienda/simulador/portadas_v4.py b/_tienda/simulador/portadas_v4.py
@@ -36,7 +36,7 @@ V4 = {
   'que-proyecto-social': ('#A8501F', '¿Qué proyecto social hago?', 'Tu proyecto social, [a tu medida.]', 'Para negocios, OSC y profesionistas, con indicadores y ODS.', ['**10** preguntas · 5 min', 'De **5 a 8** proyectos', 'Indicadores y **ODS**']),
   'evaluacion-liderazgo': ('#5B2A63', 'Evaluación de liderazgo', 'Lo que crees de ti, [contra lo que has hecho.]', 'Desde 12 años: 12 dimensiones y 3 acciones para 30 días.', ['**80** preguntas · 25 min', '**12** dimensiones', '**2** aplicaciones']),
   'portales': ('#0F5A8A', 'Portal', 'Tus propiedades, [en tu propio portal.]', 'Publica tus inmuebles con fotos y recibe a los interesados por WhatsApp.', ['Tu **portal** propio', 'Fotos y **ficha** por inmueble', 'Interesados por **WhatsApp**']),
-  'pagina-web': ('#9A5220', 'Tu página web', 'Tu negocio en internet, [listo y cuidado.]', 'La diseñamos, la publicamos y la mantenemos por ti. Tú pagas $349 al mes y tu dominio.', ['Diseño **sin costo**', 'Hospedaje y **SSL**', '**3** cambios al mes']),
+  'pagina-web': ('#9A5220', 'Tu página web', 'Tu negocio en internet, [listo y cuidado.]', 'La diseñamos, la publicamos y la mantenemos por ti. Tú pagas $499 al mes y tu dominio.', ['Diseño **sin costo**', 'Hospedaje y **SSL**', '**3** cambios al mes']),
   'clara': ('#1F5FD6', 'Clara', 'Tu dinero, claro. Anota todo [en segundos.]', 'Gastos, ingresos y tarjetas en un solo lugar. Clara te dice cuánto te alcanza al día.', ['**Efectivo**, débito y crédito', '**Sin** conectar tu banco', 'Desde **15** años']),
 }
 
